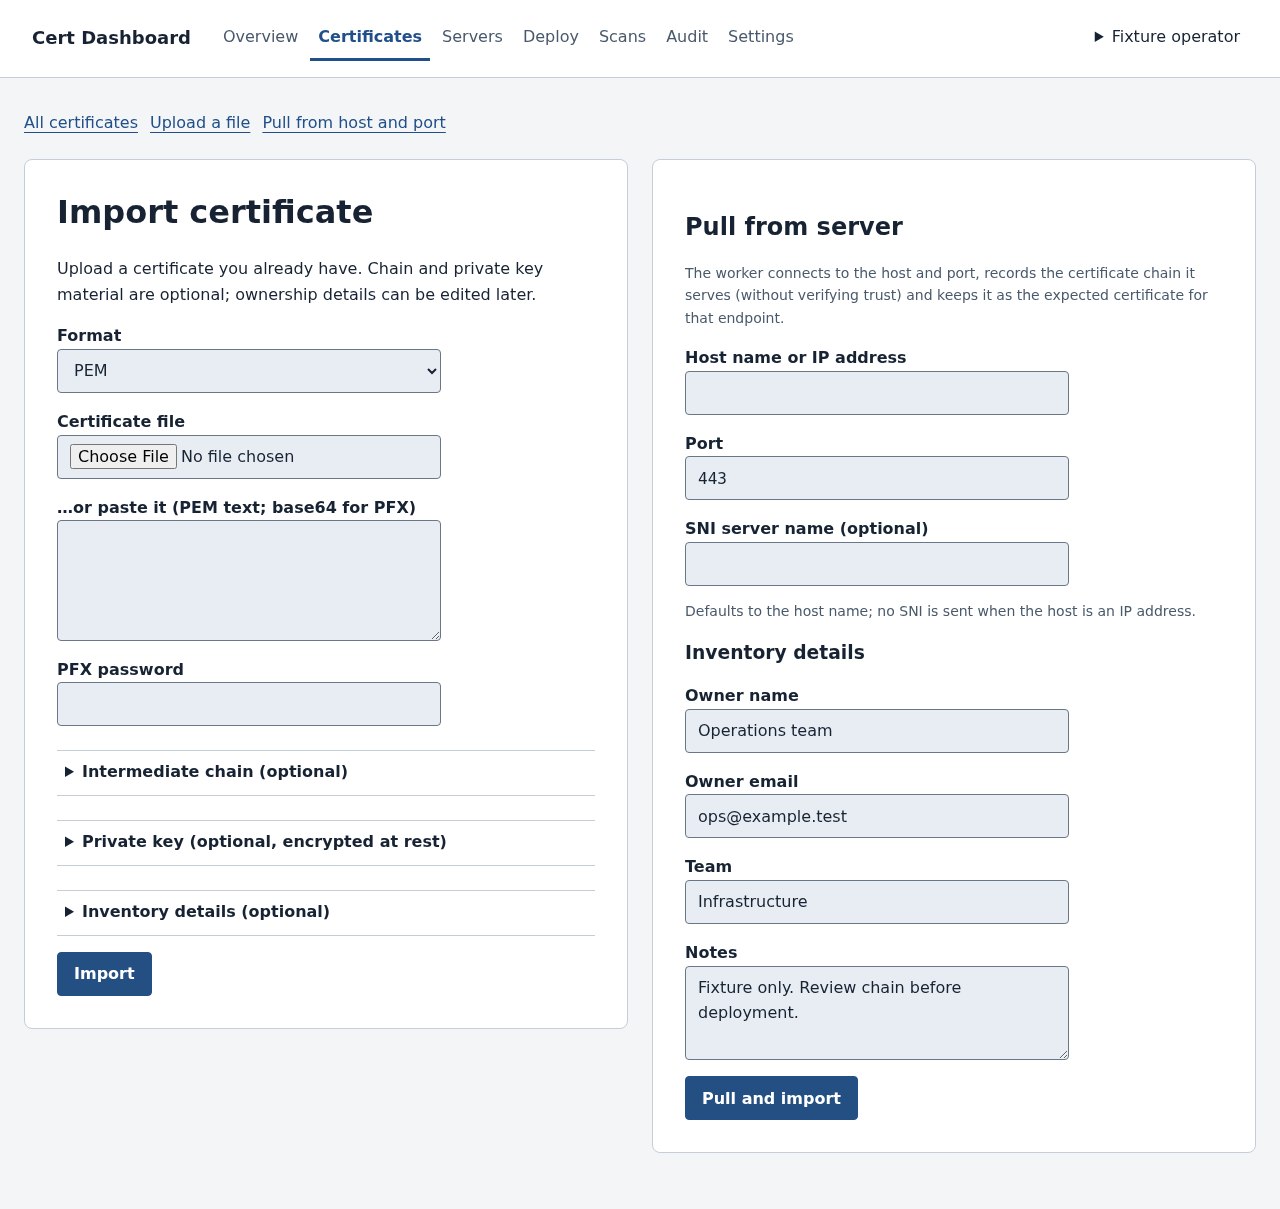
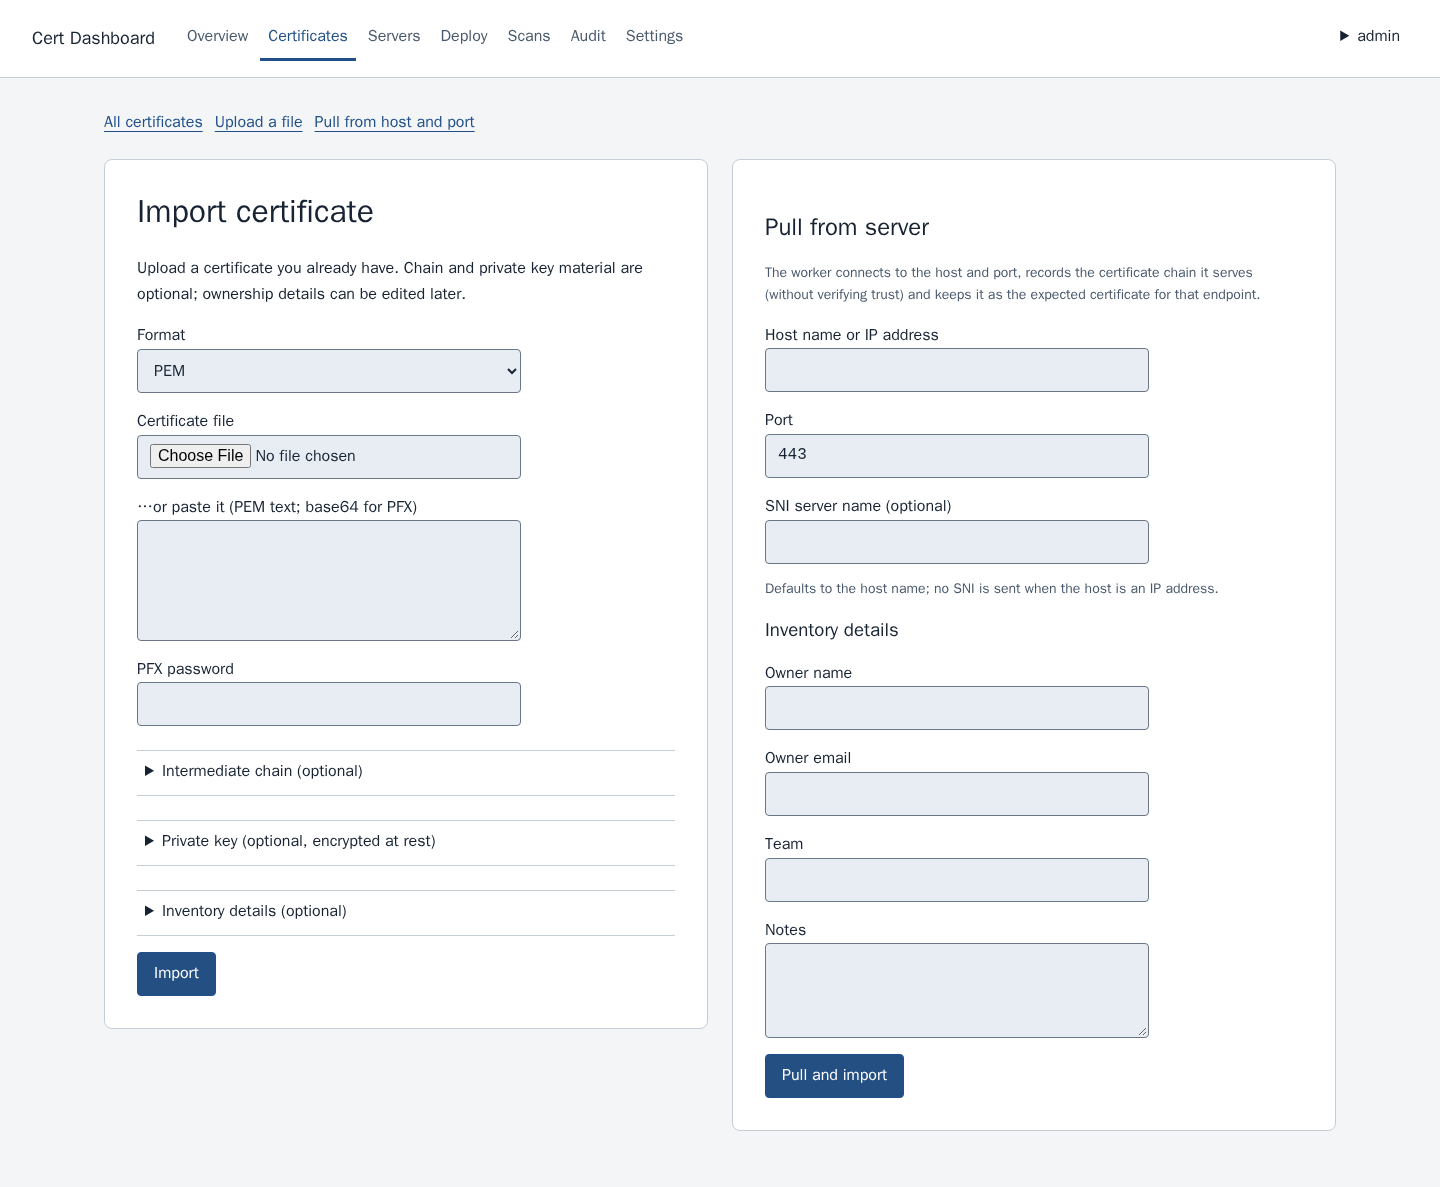
docs: use captures from the running instance in the README

diff --git a/README.md b/README.md
@@ -12,7 +12,7 @@ It is not a CA and signs nothing. There is no ACME/Let's Encrypt flow and no CA 
 never edits nginx or Apache configuration, it does not check OCSP or CRL, and it has no
 high-availability or multi-tenant mode. Every active user is an administrator: v1 has no RBAC.
 
-![Overview page: expiry counters for expired, under 7, under 30 and under 60 days, worker and inventory state, TLS health counters](docs/screenshots/overview.png)
+![Overview page: expiry counters for expired, under 7, under 30 and under 60 days plus total active, worker state and last heartbeat, TLS health counters including one mismatch, and the recent jobs table](docs/screenshots/overview.png)
 
 **What you get**
 
@@ -52,9 +52,9 @@ a supplied key is encrypted before it is stored.
   JSON; the detail page adds chain status, key presence and public fingerprint, lineage, audit rows,
   the endpoints panel and the deploy panel.
 
-![Certificate list: filters, status badges with days remaining, key and binding columns](docs/screenshots/certificate-list.png)
+![Certificate list: filters, five imported certificates with expiry badges from twelve days expired to 399 days left, and the key and binding columns](docs/screenshots/certificate-list.png)
 
-![Certificate detail: expiring and incomplete-chain badges, SANs, issuer, fingerprint and download actions](docs/screenshots/certificate-detail.png)
+![Certificate detail: a valid certificate with 199 days left, SANs, subject, issuer, fingerprint and download actions, and the validation block that reports an incomplete chain, names the missing issuer and explains that the cached status is refreshed by the next trust re-check](docs/screenshots/certificate-detail.png)
 
 ![Import screen: upload form with optional chain and key, and the pull-from-host-and-port form](docs/screenshots/certificate-import.png)
 
@@ -94,7 +94,9 @@ adds endpoints from bindings; you can also add them by hand.
 - Observed certificates are never imported, matched into inventory or trusted. `chain_status` changes
   only through an explicit trust recheck, which runs daily and after every trust-anchor change.
 
-![Scan detail: a mismatch finding with the expected certificate beside the certificate the endpoint actually serves](docs/screenshots/scan-mismatch.png)
+![Scans page: the add-endpoint form, filters, and the endpoint list with expected and observed certificate, expiry, mismatch status and last check per row](docs/screenshots/scan-list.png)
+
+![Scan detail: a mismatch finding with the expected and observed SHA-256 fingerprints side by side, the TLS version and elapsed time, likely actions, and the endpoint history](docs/screenshots/scan-detail.png)
 
 ## Renewal
 
@@ -159,10 +161,10 @@ never reloads a service.
   rows share the transaction of the change they describe. The browser filters by actor, action prefix,
   target, time and IP, and exports the newest 5,000 rows as JSON metadata.
 
-![Account page: password change, enabled two-factor authentication with recovery codes, and the current session](docs/screenshots/account-mfa.png)
+![Account page: password change, two-factor authentication offered but not enabled in this capture, and the current session](docs/screenshots/account-mfa.png)
 
-*The data in these images is synthetic: they are renders of the repository's own preview fixtures
-(`docs/ui/previews/`), not captures of a real inventory.*
+*Screenshots are captures of a running instance populated with synthetic data, except the deploy,
+renewal and alert-settings images, which are renders of the same templates with fixture data.*
 
 ## Security model
 
@@ -285,7 +287,7 @@ as `settings.update` with the before and after values.
   `"worker": "stale"`, the container turns unhealthy and Settings → Status lists `worker_stale`.
   `/health/live` and `/health/ready` cover the web process and the database.
 
-![Settings status: worker heartbeat and state, queue counts, SMTP delivery history, keyring versions and database size](docs/screenshots/settings-status.png)
+![Settings status: worker heartbeat and queue counts, SMTP delivery failures, keyring versions and database size, the warnings for settings that are still missing, and the last scheduled job runs](docs/screenshots/settings-status.png)
 
 ## Architecture
 
@@ -332,5 +334,4 @@ reusing the code.
 
 Status: the v1 scope of the spec is implemented. Plans 1–3 are merged (inventory and renewal, TLS
 scanning and alerts, discovery and deployment) and the interface redesign merged in PRs #70–#75. The
-limits stated above are the ones a reader will hit: manual CA only, nginx and Apache over SSH only,
-single host, no RBAC, no OCSP or CRL, LDAP reserved but not implemented.
+limits stated above are the ones a reader will hit.
